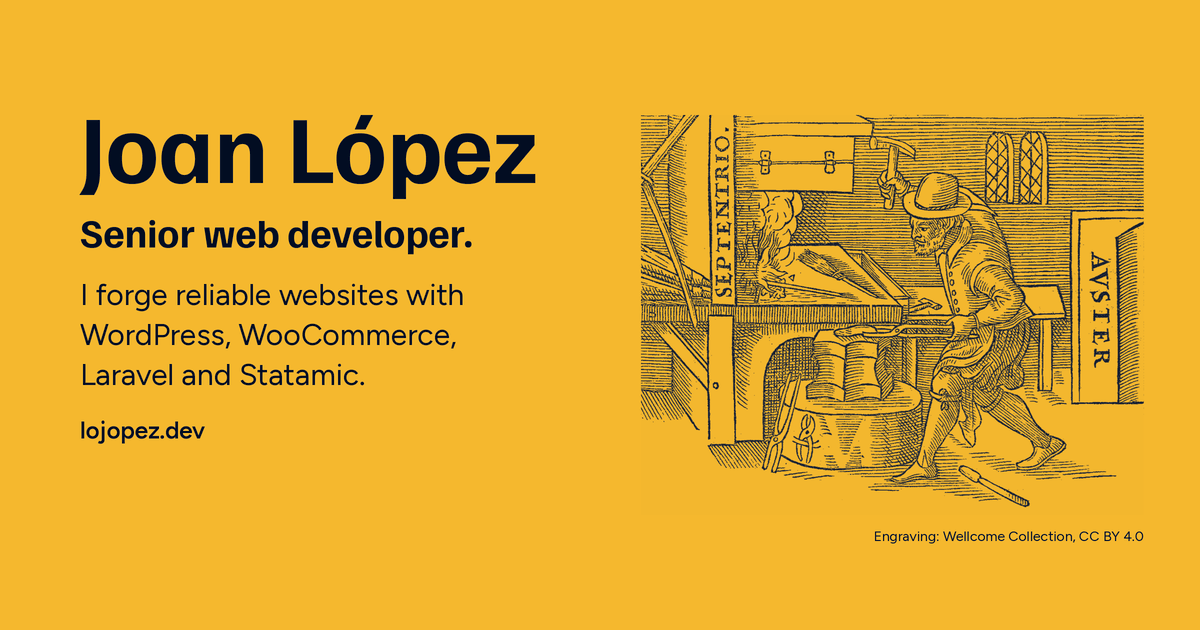
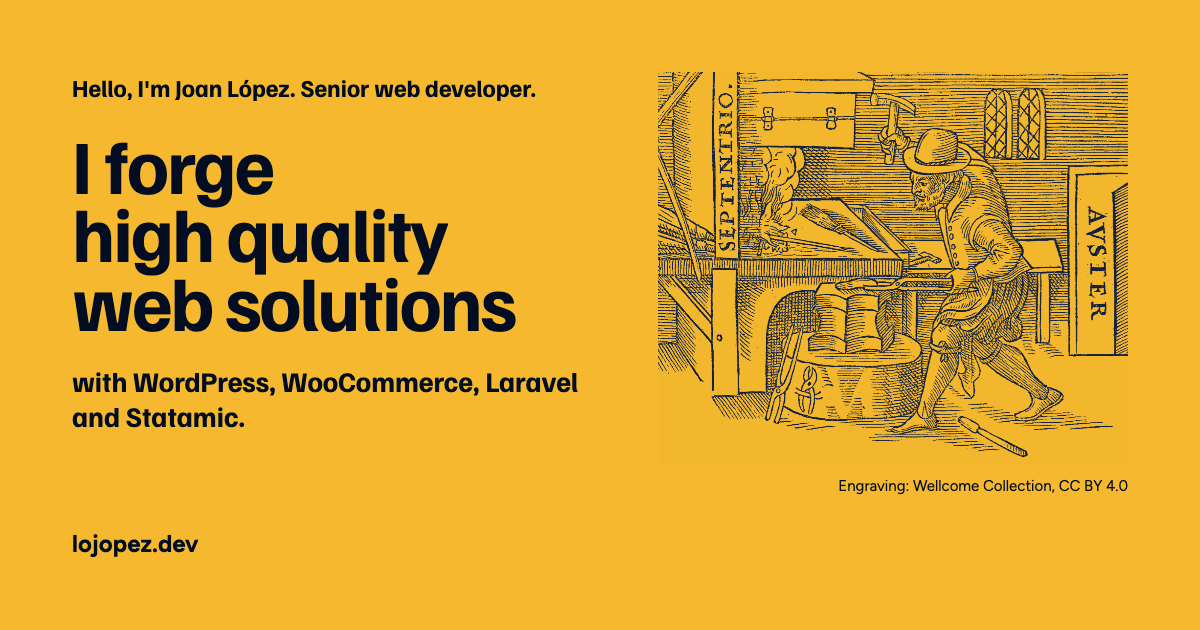
content: update the link preview images to the new hero

diff --git a/src/i18n/es/meta.ts b/src/i18n/es/meta.ts
@@ -5,7 +5,7 @@ export const meta = {
   /** The link preview image, in `public/`, 1200×630. */
   ogImage: "/og/og-es.png",
   ogImageAlt:
-    "Joan López, desarrollador web senior. Forjo sitios web fiables con WordPress, WooCommerce, Laravel y Statamic.",
+    "Joan López, desarrollador web senior. Construyo soluciones web de calidad con WordPress, WooCommerce, Laravel y Statamic.",
 }
 
 export type MetaCopy = typeof meta

diff --git a/src/i18n/en/meta.ts b/src/i18n/en/meta.ts
@@ -5,5 +5,5 @@ export const meta: MetaCopy = {
   ogLocale: "en_US",
   ogImage: "/og/og-en.png",
   ogImageAlt:
-    "Joan López, senior web developer. I forge reliable websites with WordPress, WooCommerce, Laravel and Statamic.",
+    "Joan López, senior web developer. I forge high quality web solutions with WordPress, WooCommerce, Laravel and Statamic.",
 }
